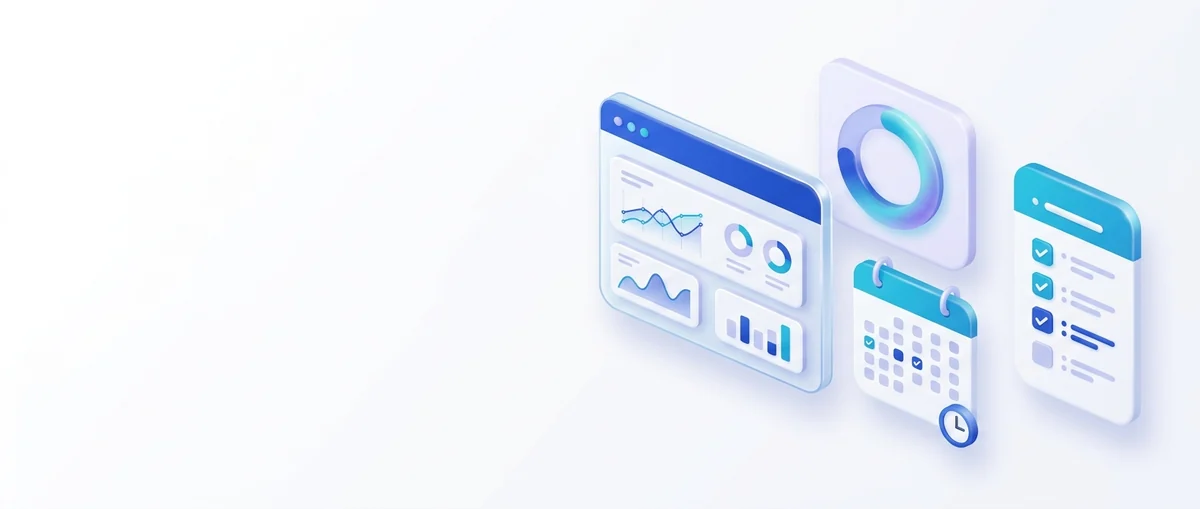
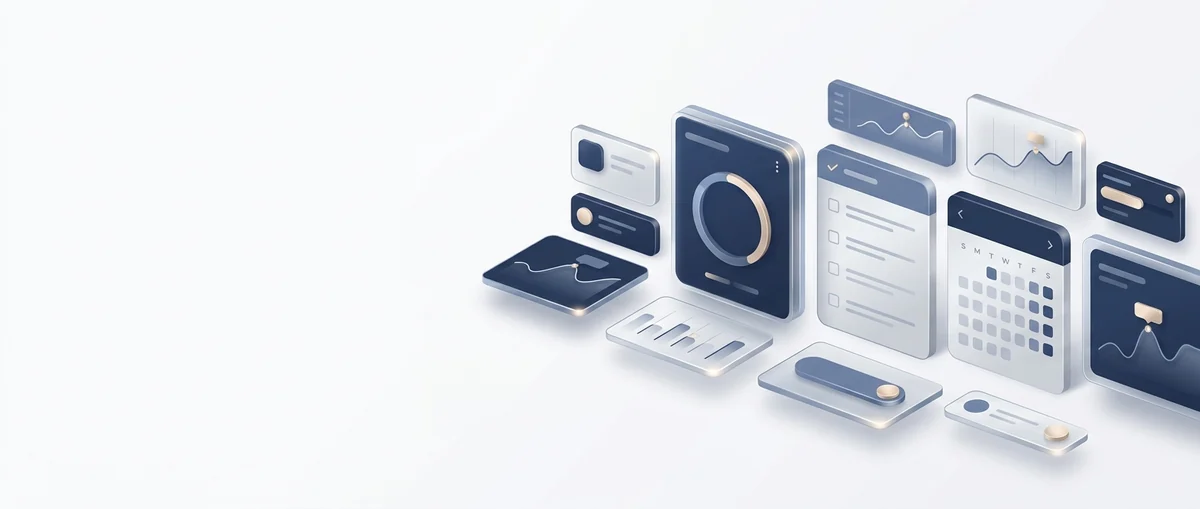
feat(ui): 곤색 체계로 전환(원색 파랑 배제) + 기준 글자 17px·사이드바 확대 — 13.9-80
- 토큰·사이드바 3테마 곤색 단계, Tailwind blue/sky/indigo → NAVY 11단계
- 일러스트 9종 곤색 팔레트로 재생성, 로고·아이콘·OG 재렌더
- html 106.25%, 사이드바 w-72·메뉴 16px·아이콘 20px, 보조 글자 대비 상향
- 배지 줄바꿈 금지, RCM 어서션 열 폭

Changed region(s): [[0.4008, 0.1179, 1.0, 0.943], [0.8325, 0.2063, 0.8633, 0.2358]]

diff --git a/frontend/src/layouts/AppLayout.tsx b/frontend/src/layouts/AppLayout.tsx
@@ -18,9 +18,9 @@ const NAV_GROUPS_KEY = 'icfr.nav.expandedGroups'
 
 /** 테마 견본 색 — 실제 사이드바 배경과 같은 색 */
 const THEME_SWATCH: Record<string, string> = {
-  gray: 'bg-[hsl(222_24%_93%)]',
+  gray: 'bg-[hsl(222_20%_93%)]',
   white: 'bg-white',
-  navy: 'bg-[hsl(225_52%_13%)]',
+  navy: 'bg-[hsl(224_40%_15%)]',
 }
 
 /** 시스템 관리 권한(users.role) 표기 */
@@ -51,10 +51,10 @@ function NavRow({ item, locked, onNavigate }: { item: NavItem; locked: boolean; 
   if (locked) {
     return (
       <div
-        className="flex cursor-not-allowed items-center gap-3 rounded-lg px-3 py-2 text-[13.5px] text-sidebar-muted/60"
+        className="flex cursor-not-allowed items-center gap-3 rounded-lg px-3 py-2.5 text-[0.95rem] text-sidebar-muted/60"
         title="내부회계관리자만 사용할 수 있습니다"
       >
-        <item.icon className="h-4 w-4 flex-shrink-0" />
+        <item.icon className="h-5 w-5 flex-shrink-0" />
         <span className="flex-1">{item.label}</span>
         <Lock className="h-3 w-3 flex-shrink-0" />
       </div>
@@ -67,7 +67,7 @@ function NavRow({ item, locked, onNavigate }: { item: NavItem; locked: boolean; 
       className={({ isActive }) =>
         cn(
           // 선택: 옅은 브랜드 바탕 + 브랜드색 글자 + 왼쪽 막대(before:)
-          'relative flex items-center gap-3 rounded-lg px-3 py-2 text-[13.5px] transition-colors duration-150',
+          'relative flex items-center gap-3 rounded-lg px-3 py-2.5 text-[0.95rem] transition-colors duration-150',
           isActive
             ? 'bg-sidebar-selected text-sidebar-selected-foreground font-semibold before:absolute before:-left-3 before:top-1.5 before:bottom-1.5 before:w-[3px] before:rounded-r-full before:bg-sidebar-indicator'
             : 'text-sidebar-muted hover:bg-sidebar-hover hover:text-sidebar-foreground',
@@ -78,7 +78,7 @@ function NavRow({ item, locked, onNavigate }: { item: NavItem; locked: boolean; 
         <>
           <item.icon
             className={cn(
-              'h-[18px] w-[18px] flex-shrink-0',
+              'h-5 w-5 flex-shrink-0',
               isActive ? 'text-sidebar-selected-foreground' : 'text-sidebar-muted',
             )}
           />
@@ -132,10 +132,10 @@ function SidebarContent({ onNavigate }: { onNavigate?: () => void }) {
     <>
       {/* 로고 */}
       <div className="flex h-16 shrink-0 items-center gap-3 px-5">
-        <LogoMark className="h-9 w-9 shadow-sm rounded-[10px]" />
+        <LogoMark className="h-10 w-10 shadow-sm rounded-[11px]" />
         <div className="min-w-0 leading-tight">
-          <p className="text-[15px] font-extrabold tracking-tight text-sidebar-foreground">ICFR</p>
-          <p className="truncate text-[11px] font-medium text-sidebar-muted">내부회계관리시스템</p>
+          <p className="text-lg font-extrabold tracking-tight text-sidebar-foreground">ICFR</p>
+          <p className="truncate text-xs font-medium text-sidebar-muted">내부회계관리시스템</p>
         </div>
       </div>
 
@@ -144,7 +144,7 @@ function SidebarContent({ onNavigate }: { onNavigate?: () => void }) {
         <div className="flex justify-end px-1 pb-1">
           <button
             onClick={() => setAllGroups(!allOpen)}
-            className="flex items-center gap-1 rounded px-1.5 py-0.5 text-[10px] text-sidebar-muted hover:bg-sidebar-hover hover:text-sidebar-foreground transition-colors"
+            className="flex items-center gap-1 rounded px-1.5 py-0.5 text-xs text-sidebar-muted hover:bg-sidebar-hover hover:text-sidebar-foreground transition-colors"
             title={allOpen ? '모든 메뉴 그룹 접기' : '모든 메뉴 그룹 펼치기'}
           >
             {allOpen ? <ChevronsDownUp className="h-3 w-3" /> : <ChevronsUpDown className="h-3 w-3" />}
@@ -162,7 +162,7 @@ function SidebarContent({ onNavigate }: { onNavigate?: () => void }) {
             <div key={idx} className="mb-3">
               <button
                 onClick={() => toggleGroup(group.groupLabel!)}
-                className="flex w-full items-center justify-between px-3 pb-1 pt-2 text-[11px] font-semibold tracking-wide text-sidebar-muted/80 hover:text-sidebar-foreground transition-colors"
+                className="flex w-full items-center justify-between px-3 pb-1 pt-2.5 text-[0.8rem] font-bold tracking-wide text-sidebar-muted hover:text-sidebar-foreground transition-colors"
               >
                 {group.groupLabel}
                 {expandedGroups[group.groupLabel] ? (
@@ -187,7 +187,7 @@ function SidebarContent({ onNavigate }: { onNavigate?: () => void }) {
       {/* 테마 — 개인 설정(localStorage). 회사 설정이 아니므로 백엔드가 없다.
           3종이 되면서 토글로는 "다음이 뭔지" 알 수 없어 선택형으로 바꿨다. */}
       <div className="flex shrink-0 items-center justify-between px-5 py-2.5 border-t border-sidebar-border">
-        <p className="text-[11px] font-medium text-sidebar-muted">사이드바 색</p>
+        <p className="text-xs font-medium text-sidebar-muted">사이드바 색</p>
         <div className="flex gap-1.5" role="group" aria-label="사이드바 테마">
           {SIDEBAR_THEMES.map((t) => (
             <button
@@ -216,8 +216,8 @@ function SidebarContent({ onNavigate }: { onNavigate?: () => void }) {
               {initials(user.display_name)}
             </span>
             <div className="min-w-0 flex-1 leading-tight">
-              <p className="truncate text-sm font-semibold text-sidebar-foreground">{user.display_name}</p>
-              <p className="truncate text-[11px] text-sidebar-muted">{ROLE_LABEL[user.role] ?? user.role}</p>
+              <p className="truncate text-[0.95rem] font-semibold text-sidebar-foreground">{user.display_name}</p>
+              <p className="truncate text-xs text-sidebar-muted">{ROLE_LABEL[user.role] ?? user.role}</p>
             </div>
             <button
               onClick={() => setPasswordOpen(true)}
@@ -295,7 +295,7 @@ export default function AppLayout() {
     <div className="flex min-h-screen bg-background">
       <aside
         ref={scrollRef}
-        className="sidebar-scroll hidden w-64 flex-shrink-0 border-r border-sidebar-border bg-sidebar text-sidebar-foreground md:flex flex-col sticky top-0 h-screen overflow-y-auto"
+        className="sidebar-scroll hidden w-72 flex-shrink-0 border-r border-sidebar-border bg-sidebar text-sidebar-foreground md:flex flex-col sticky top-0 h-screen overflow-y-auto"
       >
         <SidebarContent />
       </aside>
@@ -322,7 +322,7 @@ export default function AppLayout() {
             <LogoMark className="h-7 w-7 rounded-lg" />
             <span className="font-extrabold tracking-tight">ICFR</span>
           </span>
-          {title && <span className="hidden text-[15px] font-semibold text-foreground md:inline">{title}</span>}
+          {title && <span className="hidden text-lg font-semibold text-foreground md:inline">{title}</span>}
           <div className="ml-auto flex items-center gap-2">
             <InstallButton />
             <button

diff --git a/frontend/src/index.css b/frontend/src/index.css
@@ -6,34 +6,35 @@
 
 @layer base {
   /* ── 디자인 토큰 (2026-10-03 전면 개선) ─────────────────────────────
-     브랜드: 신뢰감 있는 코발트 블루(primary) + 남색 계열 중립색.
+     브랜드: **곤색(#2c3c63) 단계** — 원색 파랑은 정당 상징색으로 읽힐 수 있어 쓰지 않는다(2026-10-03 마스터).
+     곤색을 명도·채도만 달리해 강조(짙게)·바탕(옅게)·보조(회청)로 나눠 쓴다. 원색 파랑·하늘색 계열 금지.
      캔버스(--background)는 아주 옅은 회청색, 카드는 흰색 — 카드가 떠 보여 정보 덩어리가 구분된다.
      본문 글꼴은 Pretendard(한글·영문 모두 고른 획), 숫자는 표에서 고정폭(tabular)으로 맞춘다. */
   :root {
     --background: 220 25% 97.5%;
-    --foreground: 224 40% 12%;
+    --foreground: 224 30% 12%;
     --card: 0 0% 100%;
-    --card-foreground: 224 40% 12%;
+    --card-foreground: 224 30% 12%;
     --popover: 0 0% 100%;
-    --popover-foreground: 224 40% 12%;
-    --primary: 224 76% 46%;
+    --popover-foreground: 224 30% 12%;
+    --primary: 223 38% 28%;
     --primary-foreground: 0 0% 100%;
     --secondary: 220 22% 94.5%;
-    --secondary-foreground: 224 40% 16%;
+    --secondary-foreground: 224 30% 16%;
     --muted: 220 22% 95%;
-    --muted-foreground: 222 12% 44%;
-    --accent: 224 100% 96.5%;
-    --accent-foreground: 224 76% 36%;
+    --muted-foreground: 222 14% 36%;
+    --accent: 222 33% 94.5%;
+    --accent-foreground: 223 38% 24%;
     --destructive: 0 74% 52%;
     --destructive-foreground: 0 0% 100%;
     --border: 222 18% 89%;
     --input: 222 18% 86%;
-    --ring: 224 76% 52%;
+    --ring: 223 30% 45%;
     --radius: 0.75rem;
 
     /* 브랜드 보조 — 그라데이션·배지에 쓴다 */
-    --brand-from: 224 80% 50%;
-    --brand-to: 199 89% 48%;
+    --brand-from: 224 40% 22%;
+    --brand-to: 220 24% 46%;
     --success: 152 60% 36%;
     --warning: 35 92% 45%;
 
@@ -46,13 +47,13 @@
        통째로 짙게 칠하던 이전 방식은 메뉴가 많을 때 시선을 과하게 끈다.
        기본(gray)은 캔버스보다 한 단계 짙은 회청색. */
     --sidebar: 222 24% 95.5%;
-    --sidebar-foreground: 224 40% 14%;
-    --sidebar-muted: 222 13% 42%;
+    --sidebar-foreground: 224 30% 13%;
+    --sidebar-muted: 222 14% 34%;
     --sidebar-hover: 222 24% 90.5%;
     --sidebar-border: 222 18% 87%;
-    --sidebar-selected: 224 90% 93%;
-    --sidebar-selected-foreground: 224 76% 36%;
-    --sidebar-indicator: 224 76% 46%;
+    --sidebar-selected: 222 30% 88%;
+    --sidebar-selected-foreground: 223 40% 20%;
+    --sidebar-indicator: 223 38% 28%;
   }
 
   /* white — 본문과 같은 흰색, 경계는 테두리로만. */
@@ -60,20 +61,19 @@
     --sidebar: 0 0% 100%;
     --sidebar-hover: 222 24% 95%;
     --sidebar-border: 222 18% 90%;
-    --sidebar-selected: 224 100% 96%;
+    --sidebar-selected: 222 33% 92%;
   }
 
-  /* navy — 짙은 남색 + 흰 글자. 선택은 한 단계 밝은 남색 바탕 + 흰 글자 + 하늘색 막대.
-     (이전 호박색 강조는 브랜드 블루와 충돌해 막대 색으로만 대비를 준다.) */
+  /* navy — 짙은 곤색 + 흰 글자. 선택은 한 단계 밝은 곤색 바탕 + 흰 글자 + 은회색 막대. */
   :root[data-sidebar-theme='navy'] {
-    --sidebar: 225 52% 13%;
+    --sidebar: 224 40% 15%;
     --sidebar-foreground: 0 0% 100%;
-    --sidebar-muted: 220 24% 72%;
-    --sidebar-hover: 225 40% 20%;
-    --sidebar-border: 225 32% 22%;
-    --sidebar-selected: 224 52% 26%;
+    --sidebar-muted: 220 20% 78%;
+    --sidebar-hover: 224 32% 21%;
+    --sidebar-border: 224 28% 24%;
+    --sidebar-selected: 223 30% 29%;
     --sidebar-selected-foreground: 0 0% 100%;
-    --sidebar-indicator: 199 89% 60%;
+    --sidebar-indicator: 220 22% 74%;
   }
 }
 
@@ -82,6 +82,9 @@
     @apply border-border;
   }
   html {
+    /* 기준 글자 17px(브라우저 기본 16px 의 106.25%) — 화면 전체가 비례해 커진다. 사용자가 브라우저 글자 크기를
+       키우면 그대로 따라간다(px 고정이 아니라 % 라서). 2026-10-03 마스터: 시력이 나쁜 사람도 잘 보이게 */
+    font-size: 106.25%;
     -webkit-font-smoothing: antialiased;
     -moz-osx-font-smoothing: grayscale;
     text-rendering: optimizeLegibility;

diff --git a/frontend/src/features/rcm/components/ControlTable.tsx b/frontend/src/features/rcm/components/ControlTable.tsx
@@ -152,7 +152,7 @@ export default function ControlTable({ data, params, onParamsChange, onSelect, o
                   주기 <SortIcon col="frequency" params={params} />
                 </span>
               </TableHead>
-              <TableHead className="w-36"><HelpTerm k="term.assertion">어서션</HelpTerm></TableHead>
+              <TableHead className="w-48"><HelpTerm k="term.assertion">어서션</HelpTerm></TableHead>
               <TableHead
                 className="w-24 cursor-pointer select-none"
                 onClick={() => toggleSort('owner_name')}
@@ -217,9 +217,9 @@ export default function ControlTable({ data, params, onParamsChange, onSelect, o
                   <TableCell className="text-xs">{AUTO_MANUAL_LABELS[ctrl.auto_manual]}</TableCell>
                   <TableCell className="text-xs">{FREQUENCY_LABELS[ctrl.frequency]}</TableCell>
                   <TableCell>
-                    <div className="flex flex-wrap gap-0.5">
+                    <div className="flex min-w-[10.5rem] flex-wrap gap-0.5">
                       {(ctrl.assertions ?? []).map((a) => (
-                        <Badge key={a} variant="secondary" className="text-xs px-1.5 py-0">
+                        <Badge key={a} variant="secondary" className="px-1.5 py-0 text-[0.7rem]">
                           {a}
                         </Badge>
                       ))}

diff --git a/frontend/src/components/illustration/manifest.ts b/frontend/src/components/illustration/manifest.ts
@@ -11,7 +11,8 @@
  */
 export const STYLE =
   'Premium enterprise SaaS illustration, soft 3D isometric style, glossy glass and matte surfaces, ' +
-  'cobalt blue (#1f4fd1) and cyan (#12a4d9) palette with soft lavender accents, gentle gradients, ' +
+  'deep navy (#223052) and muted slate blue-grey (#7385ab) palette with silver-white and pale grey surfaces, ' +
+  'tiny warm champagne-gold highlights, NO bright or saturated blue, NO cyan, gentle gradients, ' +
   'subtle soft shadows, calm and trustworthy mood, high detail, ' +
   'no text, no letters, no numbers, no logos, no watermark'
 
@@ -43,7 +44,7 @@ export const SLOTS: Record<IllustrationSlot, SlotSpec> = {
     prompt:
       'A floating composition of translucent financial dashboard cards, a shield with a checkmark, ' +
       'stacked documents and a bar chart, connected by thin glowing lines, representing internal control over financial reporting, ' +
-      'set on a seamless deep navy blue background (#101a3c) with a soft cobalt glow behind the objects, objects lit with cyan rim light',
+      'set on a seamless deep navy background (#16203a) with a soft slate-grey glow behind the objects, objects lit with silver rim light',
   },
   'dashboard-hero': {
     aspect: 'wide',

diff --git a/frontend/src/layouts/AuthLayout.tsx b/frontend/src/layouts/AuthLayout.tsx
@@ -16,8 +16,8 @@ const POINTS = [
 export default function AuthLayout() {
   return (
     <div className="grid min-h-screen bg-background lg:grid-cols-[1.05fr_1fr]">
-      <aside className="relative hidden overflow-hidden bg-[hsl(225_52%_11%)] text-white lg:flex lg:flex-col">
-        <div className="absolute inset-0 bg-[radial-gradient(ellipse_at_top_left,hsl(224_80%_50%/0.45),transparent_55%),radial-gradient(ellipse_at_bottom_right,hsl(199_89%_48%/0.35),transparent_55%)]" />
+      <aside className="relative hidden overflow-hidden bg-[hsl(224_40%_13%)] text-white lg:flex lg:flex-col">
+        <div className="absolute inset-0 bg-[radial-gradient(ellipse_at_top_left,hsl(223_38%_34%/0.55),transparent_55%),radial-gradient(ellipse_at_bottom_right,hsl(220_24%_46%/0.35),transparent_55%)]" />
         <div className="relative z-10 flex items-center gap-3 px-12 pt-10">
           <LogoMark className="h-10 w-10 rounded-xl" />
           <div className="leading-tight">

diff --git a/frontend/tailwind.config.js b/frontend/tailwind.config.js
@@ -1,10 +1,21 @@
 /** @type {import('tailwindcss').Config} */
+// 곤색 단계 — 원색 파랑 대신(2026-10-03 마스터 지시). blue·sky·indigo 를 이 표로 덮어
+// 화면 곳곳의 하드코딩 파랑(bg-blue-50, text-blue-700 …)이 한 번에 곤색 계열로 바뀐다.
+const NAVY = {
+  50: '#f3f5fa', 100: '#e4e8f2', 200: '#c9d1e3', 300: '#a3b0cc', 400: '#7385ab', 500: '#4f6390',
+  600: '#3a4c77', 700: '#2c3c63', 800: '#223052', 900: '#1a2542', 950: '#111a30',
+}
+
 module.exports = {
   darkMode: ['class'],
   content: ['./index.html', './src/**/*.{ts,tsx,js,jsx}'],
   theme: {
     extend: {
       colors: {
+        blue: NAVY,
+        sky: NAVY,
+        indigo: NAVY,
+        navy: NAVY,
         border: 'hsl(var(--border))',
         input: 'hsl(var(--input))',
         ring: 'hsl(var(--ring))',

diff --git a/frontend/src/components/brand/LogoMark.tsx b/frontend/src/components/brand/LogoMark.tsx
@@ -12,8 +12,8 @@ export default function LogoMark({ className }: { className?: string }) {
     <svg viewBox="0 0 64 64" className={cn('h-8 w-8 shrink-0', className)} aria-hidden="true">
       <defs>
         <linearGradient id={`lg-${id}`} x1="0" y1="0" x2="1" y2="1">
-          <stop offset="0" stopColor="hsl(224 80% 50%)" />
-          <stop offset="1" stopColor="hsl(199 89% 48%)" />
+          <stop offset="0" stopColor="hsl(224 42% 22%)" />
+          <stop offset="1" stopColor="hsl(220 26% 44%)" />
         </linearGradient>
       </defs>
       <rect width="64" height="64" rx="15" fill={`url(#lg-${id})`} />

diff --git a/frontend/index.html b/frontend/index.html
@@ -5,7 +5,7 @@
     <link rel="icon" type="image/svg+xml" href="/favicon.svg" />
     <link rel="apple-touch-icon" href="/icons/apple-touch-icon.png" />
     <meta name="viewport" content="width=device-width, initial-scale=1.0, viewport-fit=cover" />
-    <meta name="theme-color" content="#0f172a" />
+    <meta name="theme-color" content="#223052" />
     <meta name="mobile-web-app-capable" content="yes" />
     <meta name="apple-mobile-web-app-capable" content="yes" />
     <meta name="apple-mobile-web-app-status-bar-style" content="black-translucent" />

diff --git a/frontend/src/components/ui/badge.tsx b/frontend/src/components/ui/badge.tsx
@@ -4,7 +4,7 @@ import { cva, type VariantProps } from "class-variance-authority"
 import { cn } from "@/lib/utils"
 
 const badgeVariants = cva(
-  "inline-flex items-center rounded-md border px-2.5 py-0.5 text-xs font-semibold transition-colors focus:outline-none focus:ring-2 focus:ring-ring focus:ring-offset-2",
+  "inline-flex shrink-0 items-center whitespace-nowrap rounded-md border px-2.5 py-0.5 text-xs font-semibold transition-colors focus:outline-none focus:ring-2 focus:ring-ring focus:ring-offset-2",
   {
     variants: {
       variant: {

diff --git a/frontend/vite.config.ts b/frontend/vite.config.ts
@@ -21,7 +21,7 @@ export default defineConfig({
         scope: '/',
         display: 'standalone',
         background_color: '#ffffff',
-        theme_color: '#0f172a',
+        theme_color: '#223052',
         icons: [
           { src: '/icons/icon-192.png', sizes: '192x192', type: 'image/png' },
           { src: '/icons/icon-512.png', sizes: '512x512', type: 'image/png' },

diff --git a/ClaudeICFR.md b/ClaudeICFR.md
@@ -2289,6 +2289,7 @@ HTTP 200
 77. **RCM 쓰기 가드 — ✅ 2026-10-02 완료** — `api/rcm.py` 쓰기 **20개**(프로세스·하위프로세스·위험·위험분류 각 3, 통제 3, bulk 2, 어서션 2, upload-excel 1)가 `require_write` 없이 외부감사인 쓰기 허용 상태였음 → 전부 `Depends(require_write)`. upload-excel 은 preview 포함 전체 차단(모드별 가드 분리 시 판정 이원화). `tests/test_rcm_write_guard.py` 22건(20개 403 + 조회 유지 + 라우터 경로 전수 대조), 가드 제거 시 20건 실패 확인. FE: `RcmPage` 가 `useCanWrite` false 면 쓰기 핸들러를 넘기지 않고 `ControlTable`(추가·엑셀·행 편집/삭제)·`ControlDetailSheet`(편집)가 핸들러 있을 때만 버튼 렌더. 계층 관리 탭은 기존 `canEditHierarchy` 유지. 로컬 브라우저 admin vs external_auditor 대조 확인.
 78. **7-B 매뉴얼 패널 UI + 유의 계정↔RCM 커버리지 + Report 실무 양식 (초안, 2026-10-03, 마스터 위임 "판단해서 완성 단계까지")** — 마이그레이션 없음. ① **7-B 패널**(`features/help/`): 상단 "도움말" 버튼·F1, 현재 화면의 `menu.<route>` → `screen.<route>.*` → 용어 순. **1280px 이상은 본문을 밀고(폭 280~640px 드래그, 기본 360, localStorage)**, 미만은 오른쪽 시트로 겹침(13.9-8 결정 그대로). `HelpButton`(?)·`HelpTerm`(점선 밑줄) 표식을 대시보드·스코핑·RCM·사용자·부서·EUC·IUC·Report 에 부착. 본문 없는 키는 "아직 설명이 작성되지 않았습니다"(지어내지 않음). 문구: 빈 메뉴 6개(일정관리·Report·메일발송·역할 배정·정책·회계연도) 작성 + 신규 screen 키 8개(재무제표 4·스코핑 커버리지·로그인 기록·Report 2) → 53키, 빈 키 0(테스트 기대값 갱신). 운영 반영은 `seeds.seed_help_texts` 재실행(멱등). ② **재무제표→스코핑 흐름 점검에서 찾은 공백**: 유의 계정이 정해져도 RCM 통제와 연결해 볼 길이 없었다(RCM `related_accounts` 자유 텍스트). `GET /api/scoping/{id}/coverage`(`services/scoping_coverage.py`, 저장 안 함) — 유의 계정(최종 Y, 확정이면 스냅샷)마다 이름 대조로 대응 통제 추정(exact/partial, 2자 토큰은 부분일치 제외), `전 계정`은 전사 통제로 별도 집계, 맞지 않는 RCM 표기 목록(오타 점검). 동의어 4개(우발부채/우발채무·판매관리비·매출·부가세예수금)는 실데이터 대조에서 나온 것만. 로컬 실샘플(2025 FS→2026 스코핑 212계정): BS/PL 중 82개 대응 추정, RCM 오타 `마자급금` 발견. 스코핑 화면 "통제 커버리지" 카드. ③ **Report**: 운영실태 보고서(Ⅰ개요~Ⅴ결론·서명란) + 감사(위원회) 평가보고서 탭, 수치는 전부 라이브 데이터·없으면 "—"+채울 메뉴 안내, 결론 문구 자동 선택(미종결 중요한 취약점 유무) "초안 문구" 표시, A4 인쇄. **마스터 결정 대기(Report)**: 미비점 severity(high/medium/low)→중요한 취약점/유의한 미비점/단순한 미비점 대응은 가정 — 등급 필드 별도 필요 여부, 전사통제·ITGC 분류 출처(RCM 에 없음), 평가 기준일(12월 결산 가정 — 회계연도 시작월 설정 연동 여부), 기중 종결 중요한 취약점 처리, 서명란(감사위원회/감사), 1000건 초과 집계. ④ 일정관리 매칭은 Regina 작업 영역(13.9-75)이라 손대지 않음, 메일발송은 마스터 지시로 제외. 검증: 백엔드 전체 574 passed·FE vitest 137·tsc·build, 로컬 브라우저(1440·390px) 패널·커버리지·Report 콘솔 오류 0, 모바일 가로 넘침 0. **운영 반영(2026-10-03)**: `ace157a` 배포, 백업 `db/2026/10/icfr_db_20261003_130128.sql.gz.age`(119,841B) 후 도움말 시드 생성 9·갱신 6·유지 38 → 재실행 변경 없음 53, 운영 53키 전부 본문 있음.
 79. **디자인 전면 개선 + AI 일러스트 (2026-10-03, 마스터 전권 위임 "글로벌 서비스 수준, 승인 없이 최종안·배포까지")** — 마이그레이션 없음, FE 만. ① **디자인 토큰**: 브랜드 코발트 블루(`--primary 224 76% 46%`)·옅은 회청 캔버스·흰 카드(`shadow-card`)·반경 0.75rem·성공/경고색, 글꼴 **Pretendard**(npm 번들, 하위 집합은 미리 받지 않고 런타임 CacheFirst — PWA 사전 캐시 1.5MB 유지), 표 숫자 tabular, 한글 `word-break: keep-all`. ② **사이드바**: 그라데이션 로고 마크(`components/brand/LogoMark`), 선택 = 옅은 브랜드 바탕 + 왼쪽 막대(`--sidebar-indicator`), 테마 3종 색 재정의·색 견본 선택, 이니셜 아바타·아이콘 버튼. 상단 바에 현재 메뉴명. ③ **로그인** 분할(남색 브랜드 패널 + 폼), **대시보드** 환영 배너, **빈 상태 25곳** `EmptyState`(일러스트+안내+다음 행동), 페이지 틀·표 머리글 통일(작업 에이전트). ④ **AI 일러스트 9종** — synapvideo(사내 AI, `POST /images`)로 생성: 슬롯·프롬프트 단일 원천 `components/illustration/manifest.ts`, 파일 `src/assets/illustrations/<slot>.webp` 가 있으면 자동 사용(없으면 그라데이션 대체). 후보 19장(₩1,710) 중 선택, 흰 배경은 multiply·원형 마스크로 카드에 녹임. 생성 스크립트 `scripts/gen_illustrations.py` — **키는 이 PC Windows 자격 증명 관리자(`icfr-image-api`)에서만 읽음, 저장소·운영 서버에는 없음**, 자동 승인 금액(₩10,000) 초과 견적은 멈추고 사람 승인(--approve), 응답 헤더 `X-Guide-Version`·`X-Policy-Version` 변경 시 `/guide`·`/policy` 재조회(~/.icfr). ⑤ 파비콘·PWA 아이콘·OG 이미지(생성 일러스트 사용) 브랜드 통일. 검증: FE vitest 137·tsc·build, 로컬 브라우저(1440·390px) 콘솔 오류 0·모바일 가로 넘침 0. **운영 앱 기능으로 synapvideo 를 쓰게 되면** 그때 서버 env(`SYNAPVIDEO_API_URL`·`_KEY`)와 서버 프록시를 붙인다(브라우저에 키 금지 — 안내서 §8).
+80. **디자인 2차 — 곤색 체계 + 큰 글자 (2026-10-03, 마스터 피드백)** — ① **원색 파랑 배제**: 정당 상징색으로 읽힐 수 있어 브랜드를 **곤색(#2c3c63) 단계**로 교체. 토큰(primary·accent·ring·brand·사이드바 3테마)과 함께 **Tailwind `blue`·`sky`·`indigo` 색표를 곤색 11단계(`NAVY`)로 덮어** 코드 곳곳의 하드코딩 파랑 41곳을 한 번에 전환. 일러스트 9종도 곤색·회청·은색 팔레트로 재생성(후보 19장 ₩1,710 — 누적 ₩3,600), 로고·파비콘·PWA 아이콘·OG 재렌더. ② **가독성**: 기준 글자 16→17px(`html{font-size:106.25%}` — 브라우저 글자 크기 설정을 그대로 따름), 사이드바 폭 256→306px·메뉴 글자 약 16px·아이콘 20px, 보조 글자색 대비 상향(muted 44%→36%). 배지 줄바꿈 금지(전역), RCM 어서션 열 폭 확보. 검증: FE vitest 137·tsc·build, 로컬 1440·390px 콘솔 오류 0·가로 넘침 0.
 
 ### Claude에게 주는 다음 세션 지시
 > "ClaudeICFR.md를 읽고, 섹션 12에서 다음 작업을 확인한 뒤 진행. 작업 종료 시 섹션 12·13·14 업데이트 필수."
@@ -2299,6 +2300,7 @@ HTTP 200
 
 > 날짜 / 변경자 / 요약. 최신이 위로.
 
+- **2026-10-03 / TrustBuilder + Claude** — **디자인 2차: 곤색 체계 + 큰 글자** (13.9-80). 원색 파랑 배제(정치색 우려)→곤색 단계, 일러스트 재생성, 기준 글자 17px·사이드바 확대.
 - **2026-10-03 / TrustBuilder + Claude** — **디자인 전면 개선 + AI 일러스트** (마이그레이션 없음, 13.9-79). 브랜드 토큰·Pretendard·사이드바·로그인·대시보드 배너·빈 상태 25곳, synapvideo 로 일러스트 9종 생성(₩1,710), 아이콘·OG 통일. 키는 로컬 자격 증명 관리자에만.
 - **2026-10-03 / TrustBuilder + Claude** — **7-B 매뉴얼 패널 + 스코핑 통제 커버리지 + Report 실무 양식** (마이그레이션 없음, 13.9-78). 우측 도움말 패널(넓은 화면 본문 밀림·폭 조절, 좁은 화면 겹침)과 화면 표식, 문구 53키(빈 키 0). 유의 계정↔RCM 통제 이름 대조 커버리지 API·카드. Report 를 운영실태 보고서·감사(위원회) 평가보고서 구조로. 운영 도움말 시드 재실행.
 - **2026-10-02 / Regina + Claude** — **RCM 쓰기 가드** (마이그레이션 없음, 13.9-77). RCM 쓰기 20개 `require_write`(external_auditor 403, upload-excel preview 포함) + 경로 전수 대조 테스트 22건 + FE 통제 탭 쓰기 버튼 숨김.
